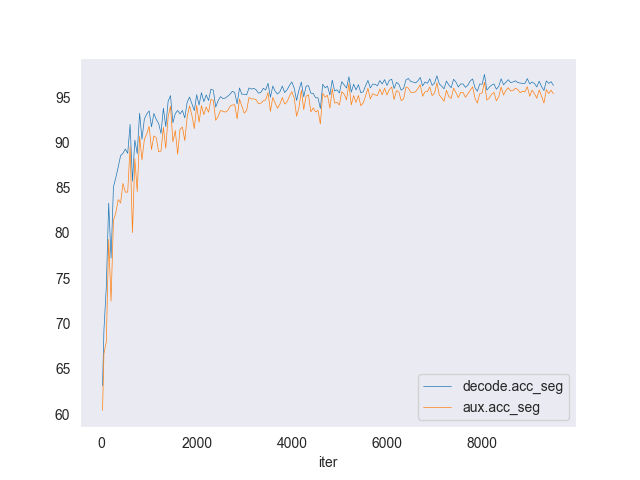
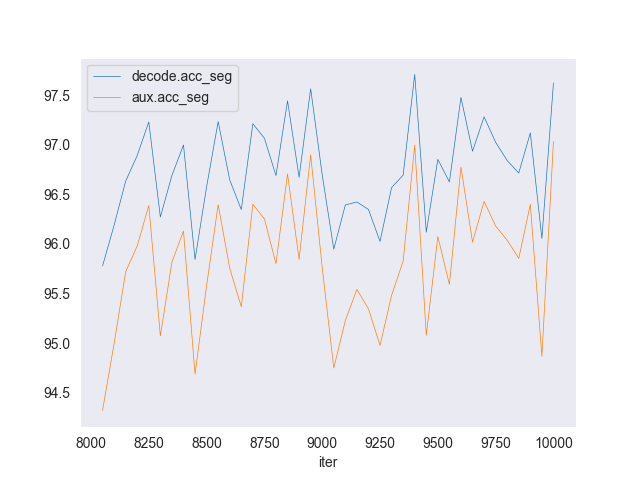
isanet and other

diff --git a/tools/isanet/isanet.py b/tools/isanet/isanet.py
@@ -136,7 +136,7 @@ param_scheduler = [
     dict(
         begin=0,
         by_epoch=False,
-        end=20000,
+        end=10000,
         eta_min=0.0001,
         power=0.9,
         type='PolyLR'),
@@ -174,7 +174,7 @@ test_pipeline = [
     dict(type='LoadAnnotations'),
     dict(type='PackSegInputs'),
 ]
-train_cfg = dict(max_iters=20000, type='IterBasedTrainLoop', val_interval=2000)
+train_cfg = dict(max_iters=10000, type='IterBasedTrainLoop', val_interval=2000)
 train_dataloader = dict(
     batch_size=32,
     dataset=dict(
